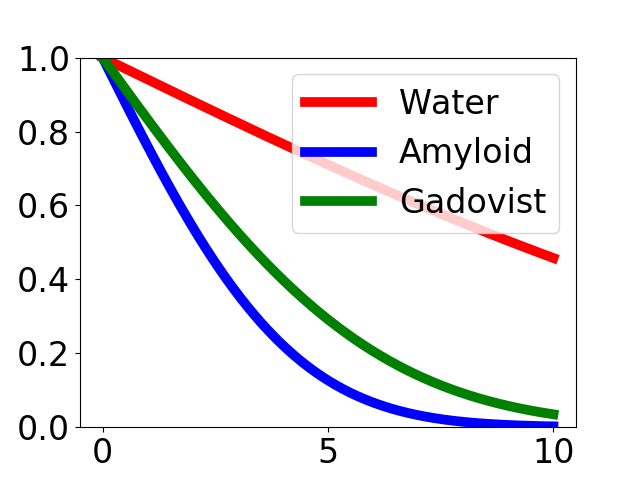
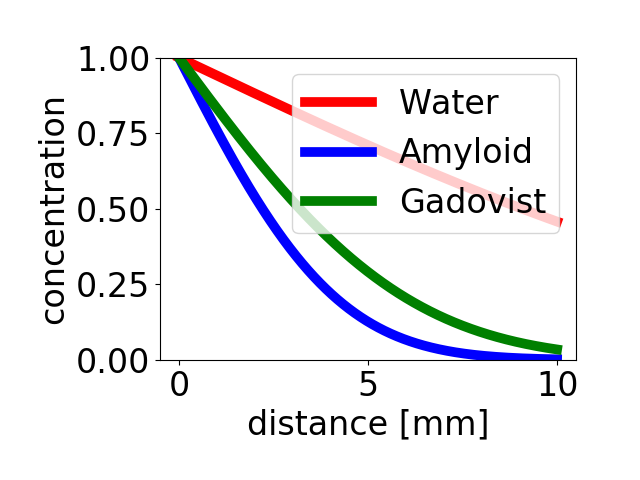
updates wrt figure labels

diff --git a/mri2fem/mri2fem/chp6/analytical_1D.py b/mri2fem/mri2fem/chp6/analytical_1D.py
@@ -5,10 +5,12 @@ from scipy import sqrt
 from scipy.special import erfc 
 import matplotlib.pyplot as plt 
 
+plt.gcf().subplots_adjust(bottom=0.15)
 plt.ylim(0,1)
 plt.rc('xtick', labelsize=24) 
 plt.rc('ytick', labelsize=24) 
-
+plt.xlabel("distance [mm]", size=24)
+plt.ylabel("concentration", size=24)
 
 Lmax = 2  # 2 mm 
 xx = scipy.arange(0, Lmax, 0.001)
@@ -25,10 +27,12 @@ analytical_solution_24hour = erfc(xx / (2*sqrt( D * 24*60*60)))
 analytical_solution_49hour = erfc(xx / (2*sqrt( D * 48*60*60))) 
 analytical_solution_1week = erfc(xx / (2*sqrt( D * 7*24*60*60))) 
 
+plt.gcf().subplots_adjust(bottom=0.25, left=0.25)
 plt.ylim(0,1)
 plt.rc('xtick', labelsize=24) 
 plt.rc('ytick', labelsize=24) 
-
+plt.xlabel("distance [mm]", size=24)
+plt.ylabel("concentration", size=24)
 plt.plot(xx, analytical_solution_15min, "r", linewidth=7)
 plt.plot(xx, analytical_solution_1hour, "b", linewidth=7)
 plt.plot(xx, analytical_solution_9hour, "g", linewidth=7)
@@ -37,8 +41,6 @@ plt.plot(xx, analytical_solution_1week, "c", linewidth=7)
 plt.legend(["15 min", "1 hour", "9 hours", "24 hours", "48 hours", "1 week"], prop={"size" : 24}, loc=1)
 plt.savefig("Amyloid_1D_2mm.png")
 plt.show()
-
-
 
 Lmax = 10  # 1 cm in mm 
 xx = scipy.arange(0, Lmax, 0.001)
@@ -50,11 +52,12 @@ analytical_solution_24hour = erfc(xx / (2*sqrt( D * 24*60*60)))
 analytical_solution_49hour = erfc(xx / (2*sqrt( D * 48*60*60))) 
 analytical_solution_1week  = erfc(xx / (2*sqrt( D * 7*24*60*60))) 
 
+plt.gcf().subplots_adjust(bottom=0.25, left=0.25)
 plt.ylim(0,1)
 plt.rc('xtick', labelsize=24) 
 plt.rc('ytick', labelsize=24) 
-
-
+plt.xlabel("distance [mm]", size=24)
+plt.ylabel("concentration", size=24)
 plt.plot(xx, analytical_solution_15min, "r", linewidth=7)
 plt.plot(xx, analytical_solution_1hour, "b", linewidth=7)
 plt.plot(xx, analytical_solution_9hour, "g", linewidth=7)
@@ -64,17 +67,18 @@ plt.legend(["15 min", "1 hour", "9 hours", "24 hours", "48 hours", "1 week"], pr
 plt.savefig("Amyloid_1D_1cm.png")
 plt.show()
 
-
 Lmax = 2  # 1 cm in mm 
 xx = scipy.arange(0, Lmax, 0.001)
 analytical_solution_9hour_Water    = erfc(xx / (2*sqrt( MD_Water   * 9*60*60))) 
 analytical_solution_9hour_Amyloid  = erfc(xx / (2*sqrt( MD_Amyloid * 9*60*60))) 
 analytical_solution_9hour_Gadovist = erfc(xx / (2*sqrt( MD_Gadovist* 9*60*60))) 
 
+plt.gcf().subplots_adjust(bottom=0.25, left=0.25)
 plt.ylim(0,1)
 plt.rc('xtick', labelsize=24) 
 plt.rc('ytick', labelsize=24) 
-
+plt.xlabel("distance [mm]", size=24)
+plt.ylabel("concentration", size=24)
 plt.plot(xx, analytical_solution_9hour_Water, "r", linewidth=7)
 plt.plot(xx, analytical_solution_9hour_Amyloid, "b", linewidth=7)
 plt.plot(xx, analytical_solution_9hour_Gadovist, "g", linewidth=7)
@@ -87,11 +91,13 @@ xx = scipy.arange(0, Lmax, 0.001)
 analytical_solution_24hour_Water    = erfc(xx / (2*sqrt( MD_Water   * 24*60*60))) 
 analytical_solution_24hour_Amyloid  = erfc(xx / (2*sqrt( MD_Amyloid * 24*60*60))) 
 analytical_solution_24hour_Gadovist = erfc(xx / (2*sqrt( MD_Gadovist* 24*60*60))) 
+
+plt.gcf().subplots_adjust(bottom=0.25, left=0.25)
 plt.ylim(0,1)
 plt.rc('xtick', labelsize=24) 
 plt.rc('ytick', labelsize=24) 
-
-
+plt.xlabel("distance [mm]", size=24)
+plt.ylabel("concentration", size=24)
 plt.plot(xx, analytical_solution_24hour_Water, "r", linewidth=7)
 plt.plot(xx, analytical_solution_24hour_Amyloid, "b", linewidth=7)
 plt.plot(xx, analytical_solution_24hour_Gadovist, "g", linewidth=7)
@@ -99,22 +105,18 @@ plt.legend(["Water", "Amyloid", "Gadovist"], prop={"size" : 24}, loc=1)
 plt.savefig("24hours_2mm_WAG.png")
 plt.show()
 
-
-
-
-
-
 Lmax = 10  # 1 cm in mm 
 xx = scipy.arange(0, Lmax, 0.001)
 analytical_solution_9hour_Water    = erfc(xx / (2*sqrt( MD_Water   * 9*60*60))) 
 analytical_solution_9hour_Amyloid  = erfc(xx / (2*sqrt( MD_Amyloid * 9*60*60))) 
 analytical_solution_9hour_Gadovist = erfc(xx / (2*sqrt( MD_Gadovist* 9*60*60))) 
+
+plt.gcf().subplots_adjust(bottom=0.25, left=0.25)
 plt.ylim(0,1)
 plt.rc('xtick', labelsize=24) 
 plt.rc('ytick', labelsize=24) 
-
-
-
+plt.xlabel("distance [mm]", size=24)
+plt.ylabel("concentration", size=24)
 plt.plot(xx, analytical_solution_9hour_Water, "r", linewidth=7)
 plt.plot(xx, analytical_solution_9hour_Amyloid, "b", linewidth=7)
 plt.plot(xx, analytical_solution_9hour_Gadovist, "g", linewidth=7)
@@ -127,11 +129,13 @@ xx = scipy.arange(0, Lmax, 0.001)
 analytical_solution_24hour_Water    = erfc(xx / (2*sqrt( MD_Water    * 24*60*60))) 
 analytical_solution_24hour_Amyloid  = erfc(xx / (2*sqrt( MD_Amyloid  * 24*60*60))) 
 analytical_solution_24hour_Gadovist = erfc(xx / (2*sqrt( MD_Gadovist* 24*60*60))) 
+
+plt.gcf().subplots_adjust(bottom=0.25, left=0.25)
 plt.ylim(0,1)
 plt.rc('xtick', labelsize=24) 
 plt.rc('ytick', labelsize=24) 
-
-
+plt.xlabel("distance [mm]", size=24)
+plt.ylabel("concentration", size=24)
 plt.plot(xx, analytical_solution_24hour_Water, "r", linewidth=7)
 plt.plot(xx, analytical_solution_24hour_Amyloid, "b", linewidth=7)
 plt.plot(xx, analytical_solution_24hour_Gadovist, "g", linewidth=7)
@@ -144,11 +148,13 @@ xx = scipy.arange(0, Lmax, 0.001)
 analytical_solution_15min_Water    = erfc(xx / (2*sqrt( MD_Water   * 15*60))) 
 analytical_solution_15min_Amyloid  = erfc(xx / (2*sqrt( MD_Amyloid * 15*60))) 
 analytical_solution_15min_Gadovist = erfc(xx / (2*sqrt( MD_Gadovist* 15*60))) 
+
+plt.gcf().subplots_adjust(bottom=0.25, left=0.25)
 plt.ylim(0,1)
 plt.rc('xtick', labelsize=24) 
 plt.rc('ytick', labelsize=24) 
-
-
+plt.xlabel("distance [mm]", size=24)
+plt.ylabel("concentration", size=24)
 plt.plot(xx, analytical_solution_15min_Water, "r", linewidth=7)
 plt.plot(xx, analytical_solution_15min_Amyloid, "b", linewidth=7)
 plt.plot(xx, analytical_solution_15min_Gadovist, "g", linewidth=7)
